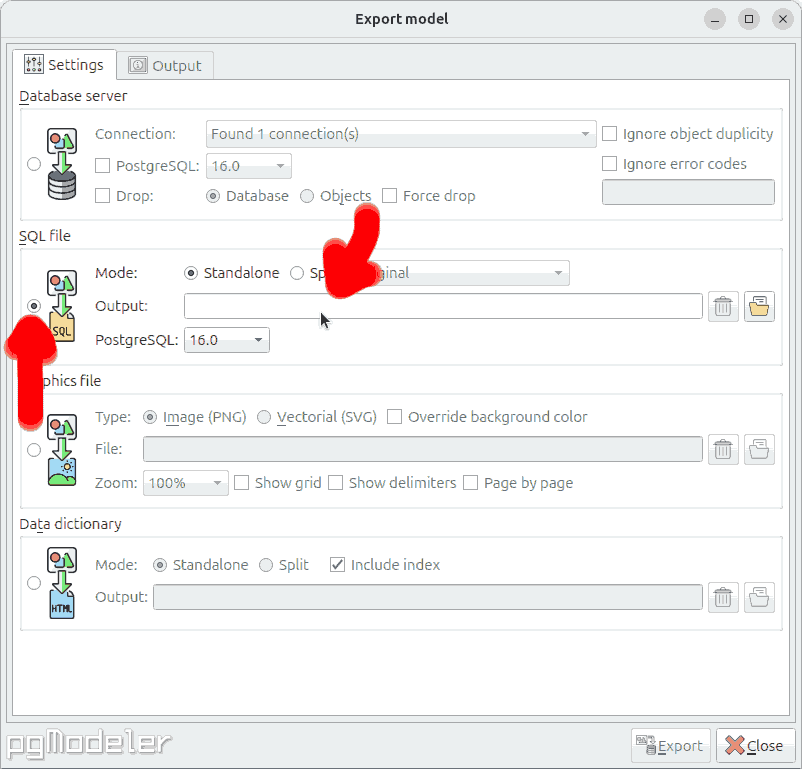
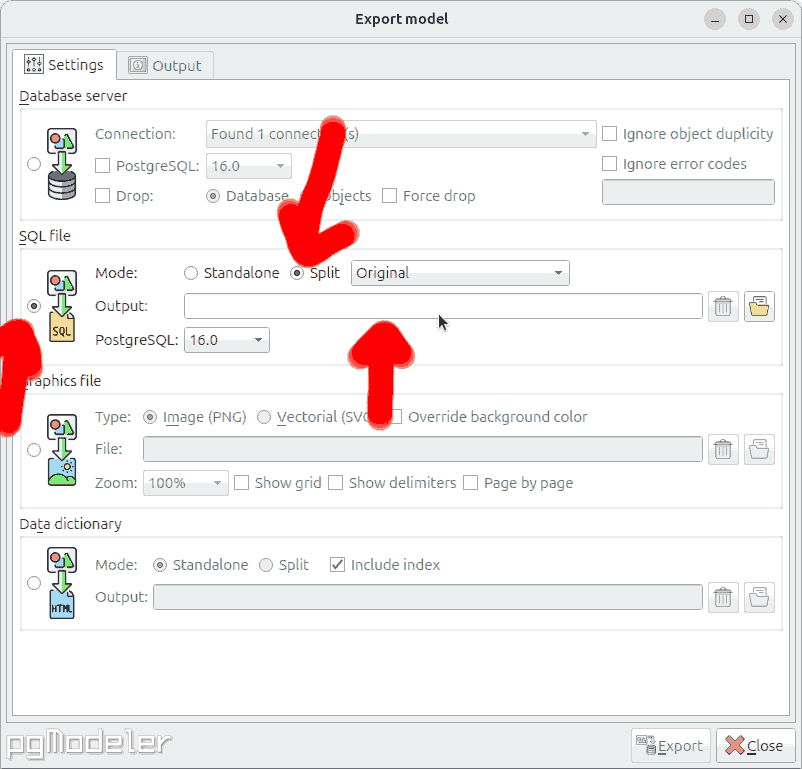
fixed error in pgmodeler usage

Changed region(s): [[0.3429, 0.1248, 0.5299, 0.5618], [0.0, 0.4057, 0.0935, 0.593], [0.5299, 0.4057, 0.5611, 0.4369]]

diff --git a/text/main/designAndModeling/logicalSchema/conceptualToLogical/entityToTable/entityToTable.tex b/text/main/designAndModeling/logicalSchema/conceptualToLogical/entityToTable/entityToTable.tex
@@ -391,7 +391,7 @@ Heck, why not, we click on~\menu{Validate}.%
 %
 \subfloat[][%
 We can now select a file name and directory where the model should be stored. %
-We choose the name \sqlil{student_database} and click~\menu{Save}.%
+We choose the name \sqlil{student_database_1} and click~\menu{Save}.%
 \label{fig:makeStudentTable37saveAsWhere}%
 ]{\tightbox{\includegraphics[width=0.48\linewidth]{\currentDir/makeStudentTable37saveAsWhere}}}%
 %
@@ -444,7 +444,7 @@ We then click into the \menu{File}~bar.
 \centering%
 %
 \subfloat[][%
-We again get to select a file name and stick with \sqlil{student_database}. %
+We again get to select a file name and stick with \sqlil{student_database_1}. %
 We click on~\menu{Save}.%
 \label{fig:makeStudentTable42fileName}%
 ]{\tightbox{\includegraphics[width=0.48\linewidth]{\currentDir/makeStudentTable42fileName}}}%
@@ -483,46 +483,77 @@ If we had done a bigger model with many tables, it would probably look quite exc
 \subfloat[][%
 We open the \menu{Export} dialog again. %
 This time, we want to export our model to~\sql. %
-So we click on~\menu{SQL file} and then on the file bar.%
+We click on~\menu{SQL file}. %
+\textcolor{red}{Important:~Mark the output as \emph{Split}.} %
+Then on the file bar.%
 \label{fig:makeStudentTable46exportToSql}%
 ]{\tightbox{\includegraphics[width=0.48\linewidth]{\currentDir/makeStudentTable46exportToSql}}}%
 %
 \floatSep%
 %
 \subfloat[][%
-As file name, we choose~\sqlil{student_database}. %
-We click on~\menu{Save}.%
-\label{fig:makeStudentTable47filename}%
-]{\tightbox{\includegraphics[width=0.48\linewidth]{\currentDir/makeStudentTable47filename}}}%
+Because we want to output the model using the \emph{split} method, this will create multiple \sql~files. %
+Instead of a file name, we need to choose a folder name. %
+We therefore create a new folder and choose~\sqlil{generated_sql} as its name. %
+\label{fig:makeStudentTable47folderName}%
+]{\tightbox{\includegraphics[width=0.48\linewidth]{\currentDir/makeStudentTable47folderName}}}%
 %
 \floatRowSep%
 %
 \subfloat[][%
-This takes us back to the dialog where we click on~\menu{Export}.%
-\label{fig:makeStudentTable48exportToSqlExport}%
-]{\tightbox{\includegraphics[width=0.48\linewidth]{\currentDir/makeStudentTable48exportToSqlExport}}}%
+The folder is created, we click on~\menu{Open}.%
+\label{fig:makeStudentTable48folderOpen}%
+]{\tightbox{\includegraphics[width=0.48\linewidth]{\currentDir/makeStudentTable48folderOpen}}}%
 %
 \floatSep%
 %
 \subfloat[][%
-The model is exported and we close the dialog. %
-We can now connect to the \postgresql\ \pgls{server} using \psql\ and execute the \sql\ commands that were exported. %
-The exported commands are shown in \cref{lst:logical:teachingManagment:student_database}. %
-If they are submitted to \psql, the output in \cref{exec:logical:teachingManagment:student_database} is created.%
-\label{fig:makeStudentTable49exportToSqlExported}%
-]{\tightbox{\includegraphics[width=0.48\linewidth]{\currentDir/makeStudentTable49exportToSqlExported}}}%
+This takes us back to the \emph{Export model} dialog, where we click on~\menu{Export}.%
+\label{fig:makeStudentTable49export}%
+]{\tightbox{\includegraphics[width=0.48\linewidth]{\currentDir/makeStudentTable49export}}}%
 %
 \label{fig:makeStudentTable:L}%
 \caption{Developing logical models using \pgmodeler~(continued).}%
 \end{figure}%
 %
-\gitSQLAndOutput{\databasesCodeRepo}{teachingManagement/logical}{student_database.sql}{}{}{}{postgres.sh}{logical:teachingManagment:student_database}{%
-Executing the \sql\ script generated in \cref{fig:makeStudentTable48exportToSqlExport} on the \postgresql\ server. %
-The \sqlil{student_database}, consisting of only a single table name~\sqlil{student}, is created.%
+\begin{figure}%
+\ContinuedFloat%
+\centering%
+%
+\subfloat[][%
+The logical model is exported to \sql. %
+We can close the dialog by clicking on~\menu{Close}.%
+\label{fig:makeStudentTable50exported}%
+]{\tightbox{\includegraphics[width=0.48\linewidth]{\currentDir/makeStudentTable50exported}}}%
+%
+\floatSep%
+%
+\subfloat[][%
+We can browse to the folder using whatever file browser the \pgls{OS} offers. %
+We find that it contains several files, whose contents are shown in \cref{lst:logical:teachingManagment:student_database_1:01_student_database_database_2001,lst:logical:teachingManagment:student_database_1:03_public_student_table_5071}. %
+We can execute them on the \postgresql\ \pgls{server} using \psql. %
+We do this in \cref{exec:logical:teachingManagment:student_database_1:01_student_database_database_2001,exec:logical:teachingManagment:student_database_1:03_public_student_table_5071}.%
+\label{fig:makeStudentTable51explorer}%
+]{\tightbox{\includegraphics[width=0.48\linewidth]{\currentDir/makeStudentTable51explorer}}}%
+%
+\label{fig:makeStudentTable:M}%
+\caption{Developing logical models using \pgmodeler~(continued).}%
+\end{figure}%
+%
+\gitSQLAndOutput{\databasesCodeRepo}{teachingManagement/logical/student_database_1/generated_sql}{01_student_database_database_2001.sql}{}{}{}{postgres.sh}{logical:teachingManagment:student_database_1:01_student_database_database_2001}{%
+This auto-generated \sql\ script creates the \db~\sqlil{student_database}.%
 }%
 %
-\gitSQLAndOutput{\databasesCodeRepo}{teachingManagement/logical}{cleanup_student_database.sql}{}{}{}{postgres.sh}{logical:teachingManagement:student_database:cleanup}{%
-Cleaning up after the student database example.%
+\gitSQLAndOutput{\databasesCodeRepo}{teachingManagement/logical/student_database_1/generated_sql}{03_public_student_table_5071.sql}{student_database}{}{}{postgres.sh}{logical:teachingManagment:student_database_1:03_public_student_table_5071}{%
+This auto-generated \sql\ script creates the table~\sqlil{student} inside the \db~\sqlil{student_database}.%
+}%
+%
+\gitSQLAndOutput{\databasesCodeRepo}{teachingManagement/logical/student_database_1}{insert_records.sql}{student_database}{}{}{postgres.sh}{logical:teachingManagment:student_database_1:insert_records}{%
+We can insert some records into the table~\sqlil{student}.%
+}%
+%
+\gitSQLAndOutput{\databasesCodeRepo}{teachingManagement/logical/student_database_1}{cleanup.sql}{}{}{}{postgres.sh}{logical:teachingManagement:student_database_1:cleanup}{%
+Cleaning up after the student \db\ example.%
 }%
 %
 %
@@ -717,7 +748,7 @@ We click on~\menu{\pgmodelerMainMenu>File>Save as} in \cref{fig:makeStudentTable
 Since our model is new and unchecked (or changed), we get asked to validate it.
 This seems to be a reasonable request and we click on~\menu{Validate} in \cref{fig:makeStudentTable36shouldValidate}.
 Next we can select a file name and directory where the model should be stored.
-We choose the name \sqlil{student_database} and click~\menu{Save} in \cref{fig:makeStudentTable37saveAsWhere}.
+We choose the name \sqlil{student_database_1} and click~\menu{Save} in \cref{fig:makeStudentTable37saveAsWhere}.
 
 This takes us back to the main window.
 We notice a bar with new buttons, including one called~\menu{Validate}.
@@ -735,7 +766,7 @@ We therefore click on~\menu{Export} in \cref{fig:makeStudentTable40export}.
 We want to store the model as \pgls{SVG} graphic.
 Therefore, we click on \menu{Graphics file} and select \menu{Vectorial~(SVG)}.
 We then click into the \menu{File}~bar in \cref{fig:makeStudentTable41exportAsSvg}.
-We again get to select a file name and again stick with \sqlil{student_database}.
+We again get to select a file name and again stick with \sqlil{student_database_1}.
 In \cref{fig:makeStudentTable42fileName}, we click on~\menu{Save}.
 This takes us back to the export dialog in \cref{fig:makeStudentTable43exportToSvgExport}.
 Here we can now click on~\menu{Export}.
@@ -757,20 +788,53 @@ However, sticking to \sql\ (or, more precisely, the \postgresql\ flavor of it), 
 We can actually create a \db\ from our model!
 
 We therefore open the \menu{Export} dialog again.
-This time, we want to export our model to~\sql.
-So we click on~\menu{SQL file} and then on the file bar in \cref{fig:makeStudentTable46exportToSql}.
-As file name, we choose~\sqlil{student_database}.
-In \cref{fig:makeStudentTable47filename}, we click on~\menu{Save}.
-This takes us back to the export dialog where we click on~\menu{Export} in \cref{fig:makeStudentTable48exportToSqlExport}.
+This time, we want to export our model to~\sql\ and we therefore select \menu{SQL file} option in the \menu{Export} dialog.
+It is very important to export the model to multiple files, i.e., to select the \inQuotes{Split} option.
+If we export everything into one file, then the commands to create of the \sqlil{student_database} \db\ and the creation of the \sqlil{student} table will in the same file.
+If we submit the contents of this file to \psql, then the \sqlil{student} table will not be created inside the \sqlil{student_database}~\db.
+Instead, the script will first create the \sqlil{student_database}~\db\ and then, in the public schema of the \postgresql\ \pgls{server}, also create the \sqlil{student}~table alongside it.
+The \sqlil{student}~table will not be inside the \sqlil{student_database}~\db, but in the public schema of the \dbms.
+It is therefore vital to click~\menu{SQL file}.
+After that is done, we click into the \menu{Output} bar to select a target directory in \cref{fig:makeStudentTable46exportToSql}.
 
-The model is exported and we close the dialog in~\cref{fig:makeStudentTable49exportToSqlExported}.
-\Cref{lst:logical:teachingManagment:student_database} shows the file \textil{student_database.sql} which was created from our logical model.
-This, indeed, is \sql\ -- not different from what we produced manually in the context of our simple factory example in \cref{sec:factoryCreatingTableAndInsertingData}.
+We now need to create a new directory where the \sql\ files should be stored.
+We click on the folder creation symbol, choose \textil{generated_sql} as directory name in \cref{fig:makeStudentTable47folderName} and then click on~\menu{Create}.
+We then click \menu{Open} back in the directory selection dialog as shown in \cref{fig:makeStudentTable48folderOpen}.
+This takes us back to the \menu{Export} dialog where click on~\menu{Export}, as shown in \cref{fig:makeStudentTable49export}.
 
-We can now connect to the \postgresql\ \pgls{server} using \psql\ and execute the \sql\ commands that were exported.
-If \cref{lst:logical:teachingManagment:student_database} is submitted to \psql, the output in \cref{exec:logical:teachingManagment:student_database} is produced.
-It works!
-The \db\ and the table are created exactly as expected.
+The model is exported and we close the dialog in~\cref{fig:makeStudentTable50exported}.
+In \cref{fig:makeStudentTable51explorer}, we enter the folder into which we exported the files.
+We find three new files.
+The first one, named something like~\textil{01_student_database_database...sql}, is the \sql\ script for creating the \db.
+We list its contents in \cref{lst:logical:teachingManagment:student_database_1:01_student_database_database_2001}.
+Besides some comments, we only find the \sqlil{CREATE DATABASE student_database;}\sqlIdx{CREATE!DATABASE} statement.
+This what we expect and we submit to to \sql\ using the \sqlil{postgres} administrative account in \cref{exec:logical:teachingManagment:student_database_1:01_student_database_database_2001}.%
+%
+\begin{sloppypar}%
+The second file is empty, so we can ignore it.
+The third file is named something like \textil{03_public_student_table_...sql}.
+This file contains the commands for creating the table \sqlil{student}.
+Its contents are shown in \cref{lst:logical:teachingManagment:student_database_1:03_public_student_table_5071}.
+There is not really anything there that goes beyond what we discussed in our initial example back in \cref{sec:factoryCreatingTableAndInsertingData}.
+We see the \sqlil{CREATE TABLE}\sqlIdx{CREATE!TABLE} command together with statements for creating the constraints\sqlIdx{CONSTRAINT}.%
+\end{sloppypar}%
+%
+When we pass the contents of this file to \psql, we must make sure to send them to the \db\ \sqlil{student_database}.
+We do so in \cref{exec:logical:teachingManagment:student_database_1:03_public_student_table_5071} and the execution completes successful.
+
+We thus have created a \db\ from our logical model.
+In \cref{lst:logical:teachingManagment:student_database_1:insert_records}, we test this new \db\ by inserting some records.
+The first two are OK, the third one violates the constraints on \pglspl{dateOfBirth} and on the \sqlil{national_id}.
+The first two insertions succeed in \cref{exec:logical:teachingManagment:student_database_1:insert_records}, but the third one fails, as expected.
+When the third request fails, we get a very clear and understandable output.
+The \sqlil{student_date_of_birth_check} constraint was violated.
+Because we chose a clear name for our constraint, we can easy find out what went wrong and where and why.
+
+Finally, in \cref{lst:logical:teachingManagement:student_database_1:cleanup}, we provide the \sql\ code for deleting the \db\ again.
+After executing it in \cref{exec:logical:teachingManagement:student_database_1:cleanup}, we can continue our work on a clean \postgresql\ server.
+
+In summary, we can conclude that this approach works.
+The \db\ and the table were created exactly as expected.
 What does this mean?
 It means the following:%
 %
@@ -787,7 +851,7 @@ But it is quite nice, open source, and free.
 It is suitable for \postgresql, while other programs have been developed for other \pglspl{dbms}.
 As said in \cref{bp:manyTools}, good software engineers are both able and keen to learn new tools.
 
-To depart from this example with a clean slate, we execute the \sql\ script given in \cref{lst:logical:teachingManagement:student_database:cleanup} to delete the table and \db\ again.%
+To depart from this example with a clean slate, we execute the \sql\ script given in \cref{lst:logical:teachingManagement:student_database_1:cleanup} to delete the table and \db\ again.%
 %
 \FloatBarrier%
 \endhsection%
